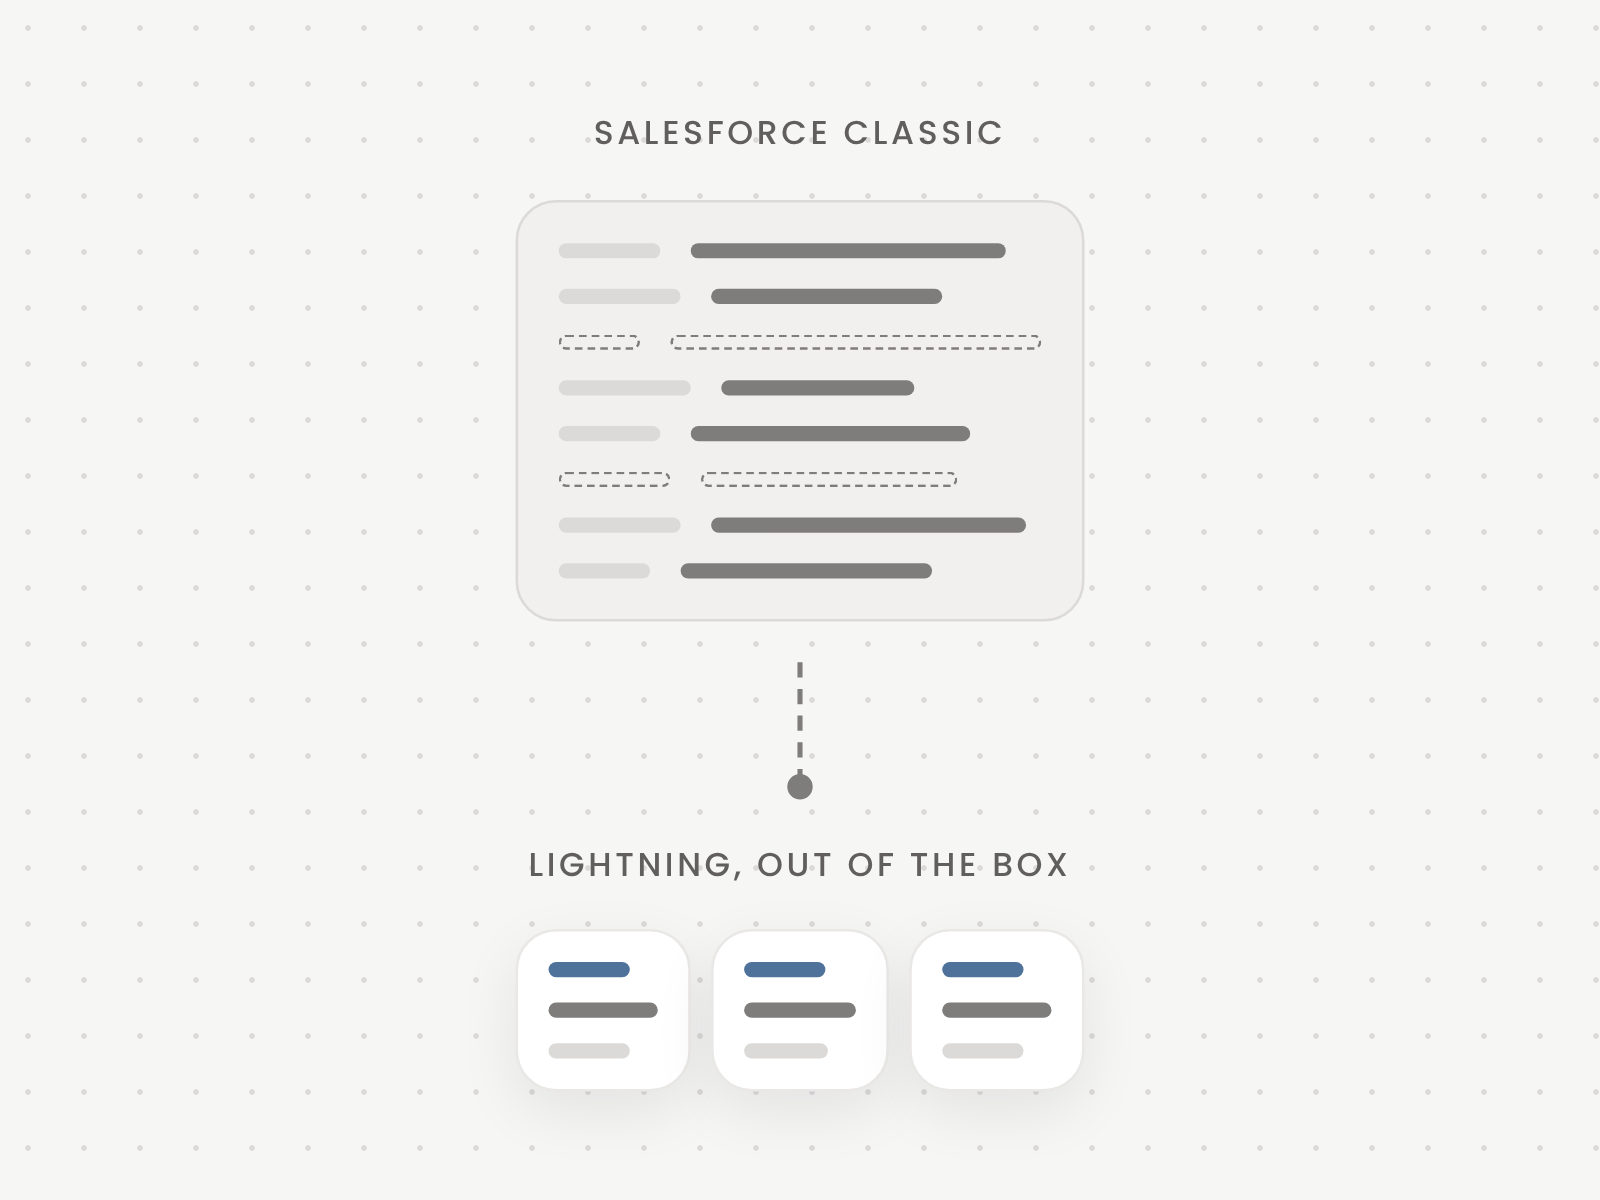
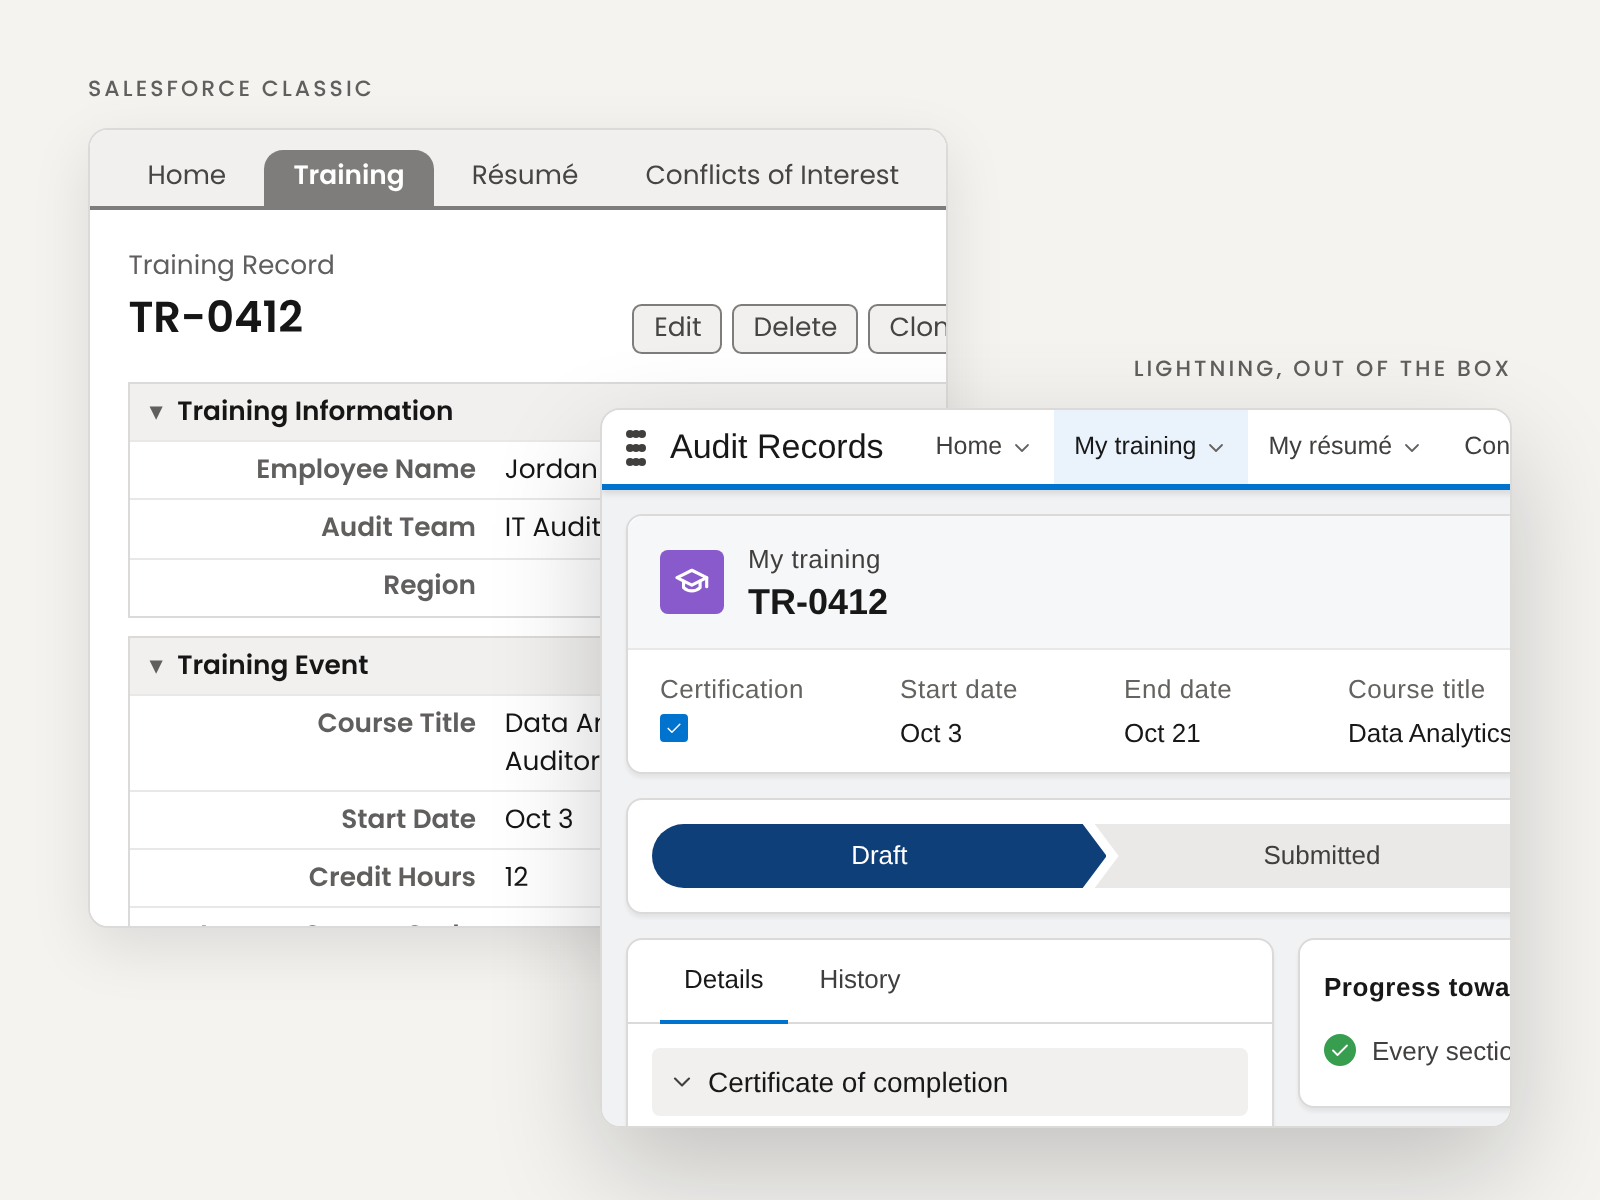
Replace the audit study’s cover with Lightning in front of Classic
Show the study’s result on the work card: the recreated Lightning record in front of the Classic record it replaced, on the paper ground.

Render the cover from the study’s own recreated screens, with invented content, at 1600 by 1200.
Keep the cover’s source in the study’s diagrams so it can be rendered again.
Rewrite the cover’s alt text to describe both screens.

diff --git a/src/app/work/a-quarter-of-the-fields-gone/diagrams.tsx b/src/app/work/a-quarter-of-the-fields-gone/diagrams.tsx
@@ -1508,3 +1508,33 @@ export function RecordFlow() {
     </div>
   );
 }
+
+/* --------------------------------------------------------------------------
+   The cover, for the work index: Lightning in front of Classic, the study's
+   result in one picture, the new record replacing the old (Alejandro,
+   November 2026: chosen over a slant, which left an empty wedge at the
+   bottom). Rendered at 800 by 600 at twice the density and saved as
+   src/assets/covers/a-quarter-of-the-fields-gone.png; kept here so it can be
+   rendered again. Invented content throughout. */
+
+const COVER_LABEL = "font-label text-[11px] font-medium uppercase tracking-[0.14em] text-text-tertiary";
+
+export function CoverArt() {
+  return (
+    <div data-scheme="light" className="relative h-[600px] w-[800px] overflow-hidden bg-[oklch(96.5%_0.004_90)]">
+      <span className={`${COVER_LABEL} absolute top-[36px] left-[44px]`}>Salesforce Classic</span>
+      <div className="absolute top-[64px] left-[44px] h-[400px] w-[430px] overflow-hidden rounded-[10px] border border-border-default bg-white shadow-[0_10px_30px_oklch(0%_0_0/0.10)]">
+        <div className="w-[620px]" style={{ zoom: 1.2 }}>
+          <ClassicScreen />
+        </div>
+      </div>
+      <span className={`${COVER_LABEL} absolute top-[176px] right-[44px]`}>Lightning, out of the box</span>
+      <div className="absolute top-[204px] left-[300px] h-[360px] w-[456px] overflow-hidden rounded-[10px] border border-border-default shadow-[0_22px_56px_oklch(0%_0_0/0.20)]">
+        {/* From the app bar down: the search row above it is left out */}
+        <div className="-mt-[44px] w-[720px]">
+          <LightningScreen />
+        </div>
+      </div>
+    </div>
+  );
+}

diff --git a/src/content/case-studies.ts b/src/content/case-studies.ts
@@ -117,12 +117,12 @@ export const caseStudies: CaseStudy[] = [
     logo: "usaa",
     period: "2021 to 2022",
     status: "published",
-    // The hero's own art on the dotted ground, rendered from the page
-    // (./diagrams HeroSubject): eight fields, two of them cut, above three
-    // short groups. Made for this site; nothing from USAA.
+    // Lightning in front of Classic, the study's result in one picture,
+    // rendered from the page's own recreations (./diagrams CoverArt,
+    // Alejandro, November 2026). Invented content; nothing from USAA.
     cover: {
       src: quarterCover,
-      alt: "A tall card of eight field rows labeled Salesforce Classic, two of them in dashed outline. A dashed line runs down from it to three small cards side by side, labeled Lightning, out of the box, each with a blue heading bar and two rows.",
+      alt: "Two recreated screens of the same training record. Behind, Salesforce Classic: tabs in a gray band, the record number over Edit, Delete and Clone buttons, and labels right-aligned beside their values under section strips. In front, Lightning, out of the box: the app bar, the record's header with its icon and highlights, a path from Draft to Submitted, and the record's tabs.",
     },
   },
 ];
